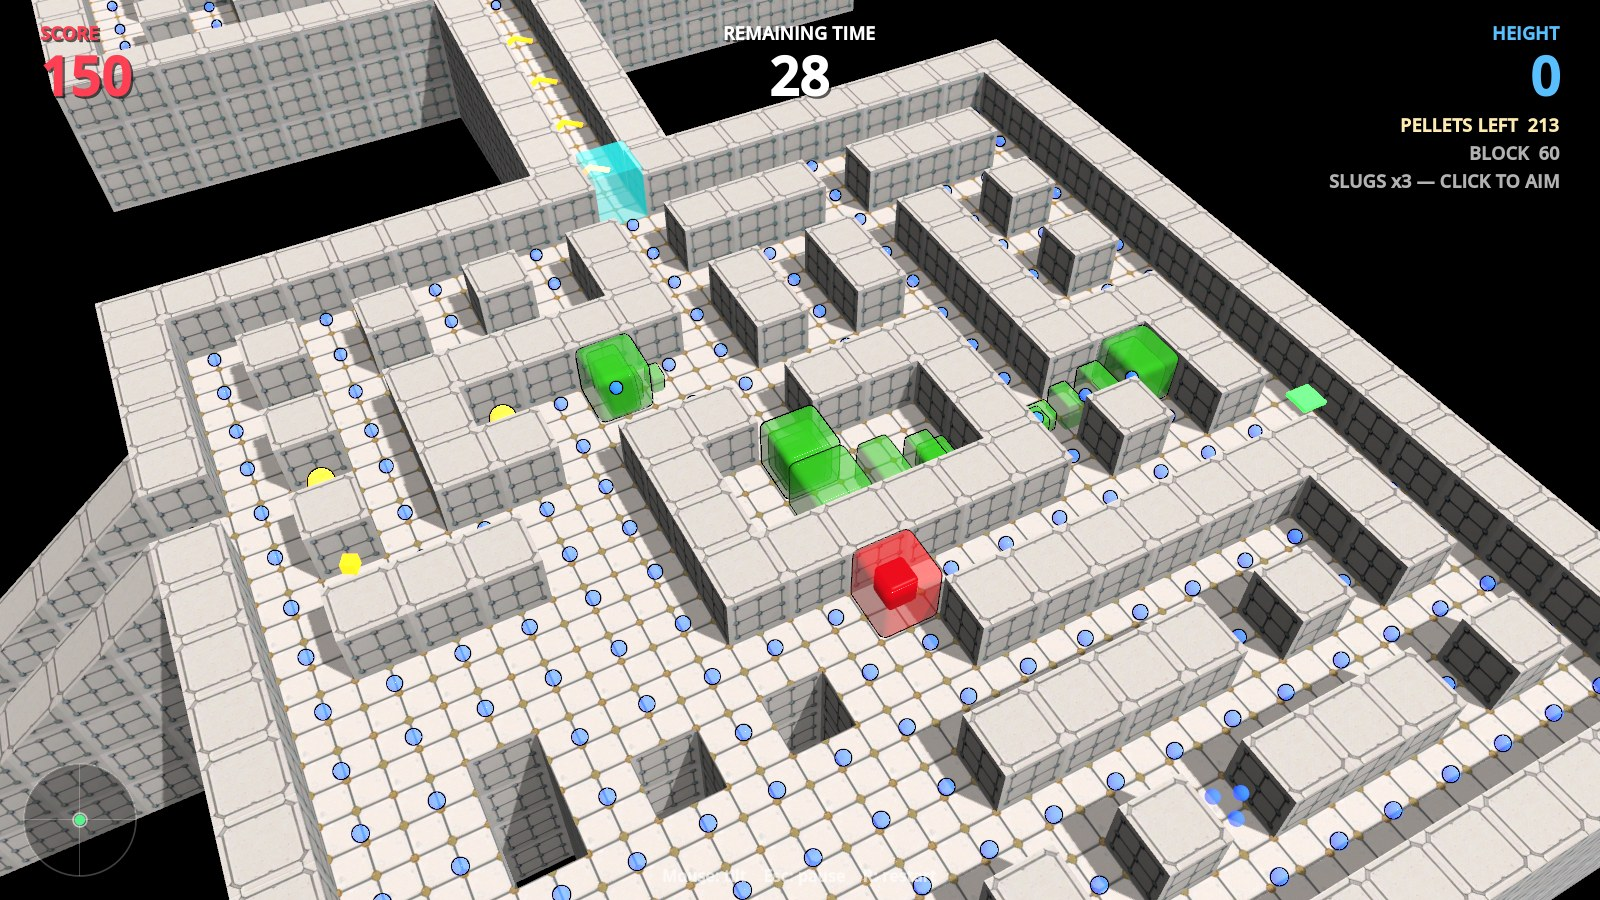
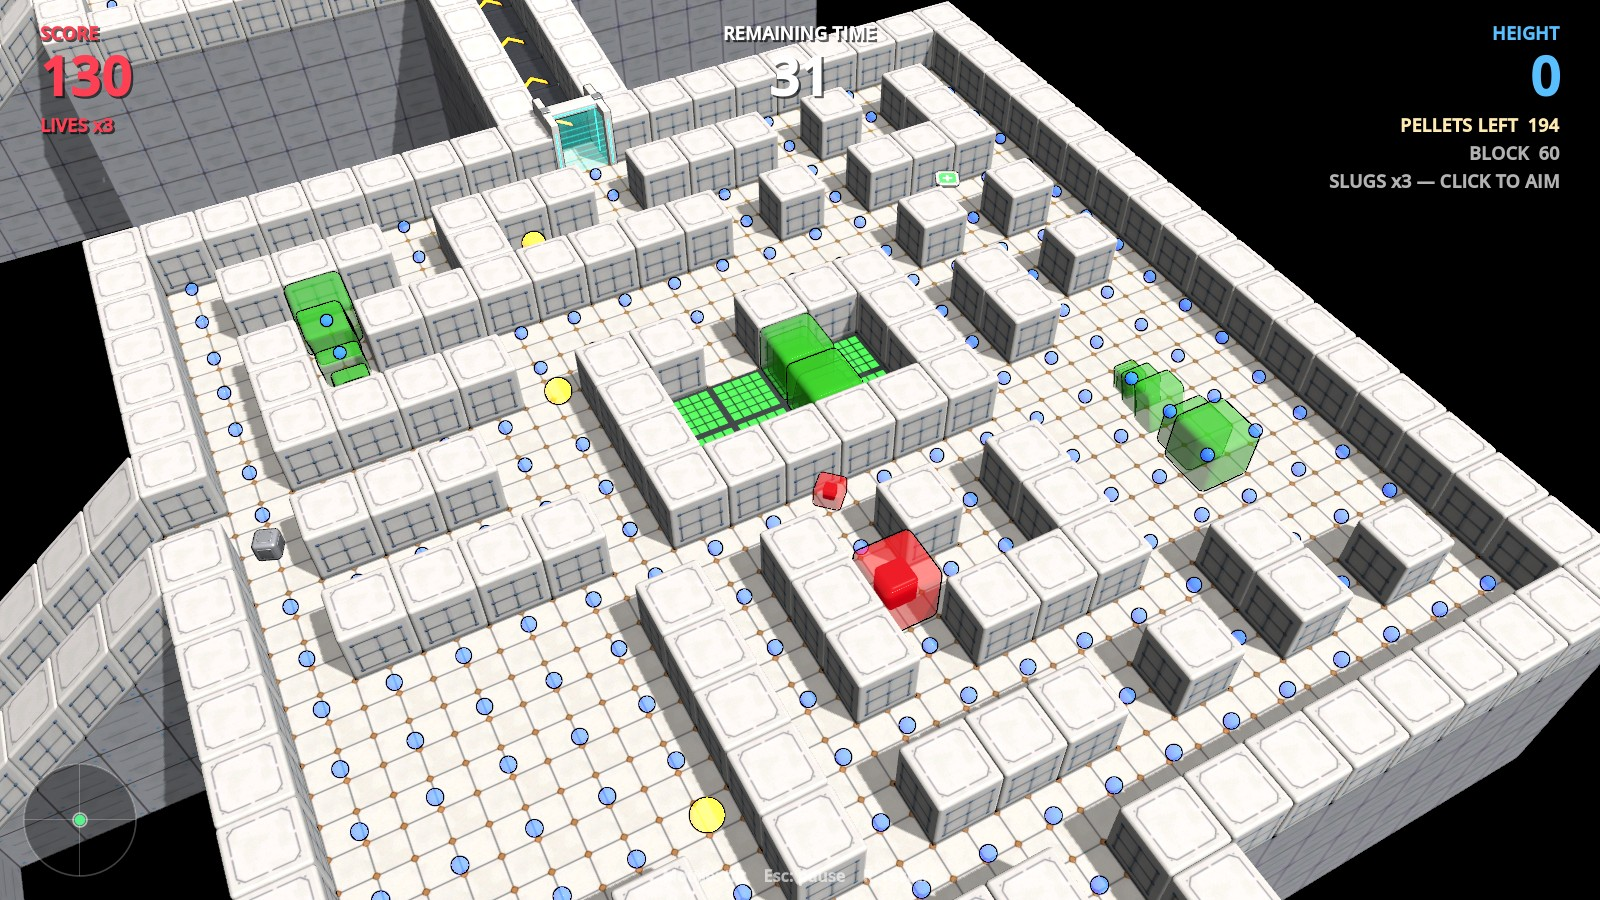
Docs and site: lives, the little red Slock, and screenshots of the new look
The README and the website say a fall costs a life (three to start) and list
the extra-life powerup. The screenshots in docs/screenshots (README and site)
are retaken with the modelled maze and pickups, and the site's tile image is
the new wall-top texture.

Claude-Session: https://claude.ai/code/session_01WFHjr59Bk242vsF58B2Z52

diff --git a/slock-web/src/components/Features.jsx b/slock-web/src/components/Features.jsx
@@ -16,7 +16,7 @@ const SECTIONS = [
     footer: 'Mouse or gamepad left stick. That\'s the whole control scheme.',
     groups: [
       { label: 'Moving', items: [['Creep or slide', 'Tilt the other way to slow down.'], ['Turn by leaning', 'Slock turns into openings you tilt toward.']] },
-      { label: 'Watch out', items: [['Holes and open edges', 'Fall off and the run is over.'], ['Too fast to turn', 'Overshoot and you slide right past.']] },
+      { label: 'Watch out', items: [['Holes and open edges', 'Fall off and it costs a life. You start with three.'], ['Too fast to turn', 'Overshoot and you slide right past.']] },
     ],
   },
   {
@@ -58,7 +58,7 @@ const SECTIONS = [
     footer: 'Three powerups per section. Take one and another turns up ten seconds later.',
     groups: [
       { label: 'Powerups', items: [['Slock of Steel', 'Smash inner walls and Swurms for 10 seconds.'], ['Close Traps', 'Every hole and gap in the walls sealed.']] },
-      { label: 'Also', items: [['Clear Dots', 'A quarter of the pellets vanish.'], ['Slug pickups', 'Three slugs, or one big one, for your store.']] },
+      { label: 'Also', items: [['Clear Dots', 'A quarter of the pellets vanish.'], ['Slug pickups', 'Three slugs, or one big one, for your store.'], ['Little red Slock', 'One more life. Hoard them.']] },
     ],
   },
 ];

diff --git a/slock-web/src/components/About.jsx b/slock-web/src/components/About.jsx
@@ -138,8 +138,8 @@ export default function About() {
             </p>
             <p className="text-(--ink-dim) text-base leading-relaxed m-0">
               That's what makes it hard. Slock turns into side openings when you lean toward
-              them, but come in too fast and you'll slide right past. Holes and open edges end
-              the run. Go on, try a corridor.
+              them, but come in too fast and you'll slide right past. Holes and open edges cost
+              you a life. Go on, try a corridor.
             </p>
           </div>
           <Corridor />

diff --git a/README.md b/README.md
@@ -29,6 +29,7 @@ Slock is in early development. If it doesn't start or something breaks, please [
 
 You are **Slock**, a red jelly block. You don't move Slock — you **tilt the world** and Slock slides downhill.
 Eat every blue pellet in a section (or find its key) to open its gate, go through, and keep climbing before the clock runs out.
+You have three lives: falling off costs one.
 Make the top ten and your name goes on the leaderboard (it's kept on your computer).
 
 ### Controls
